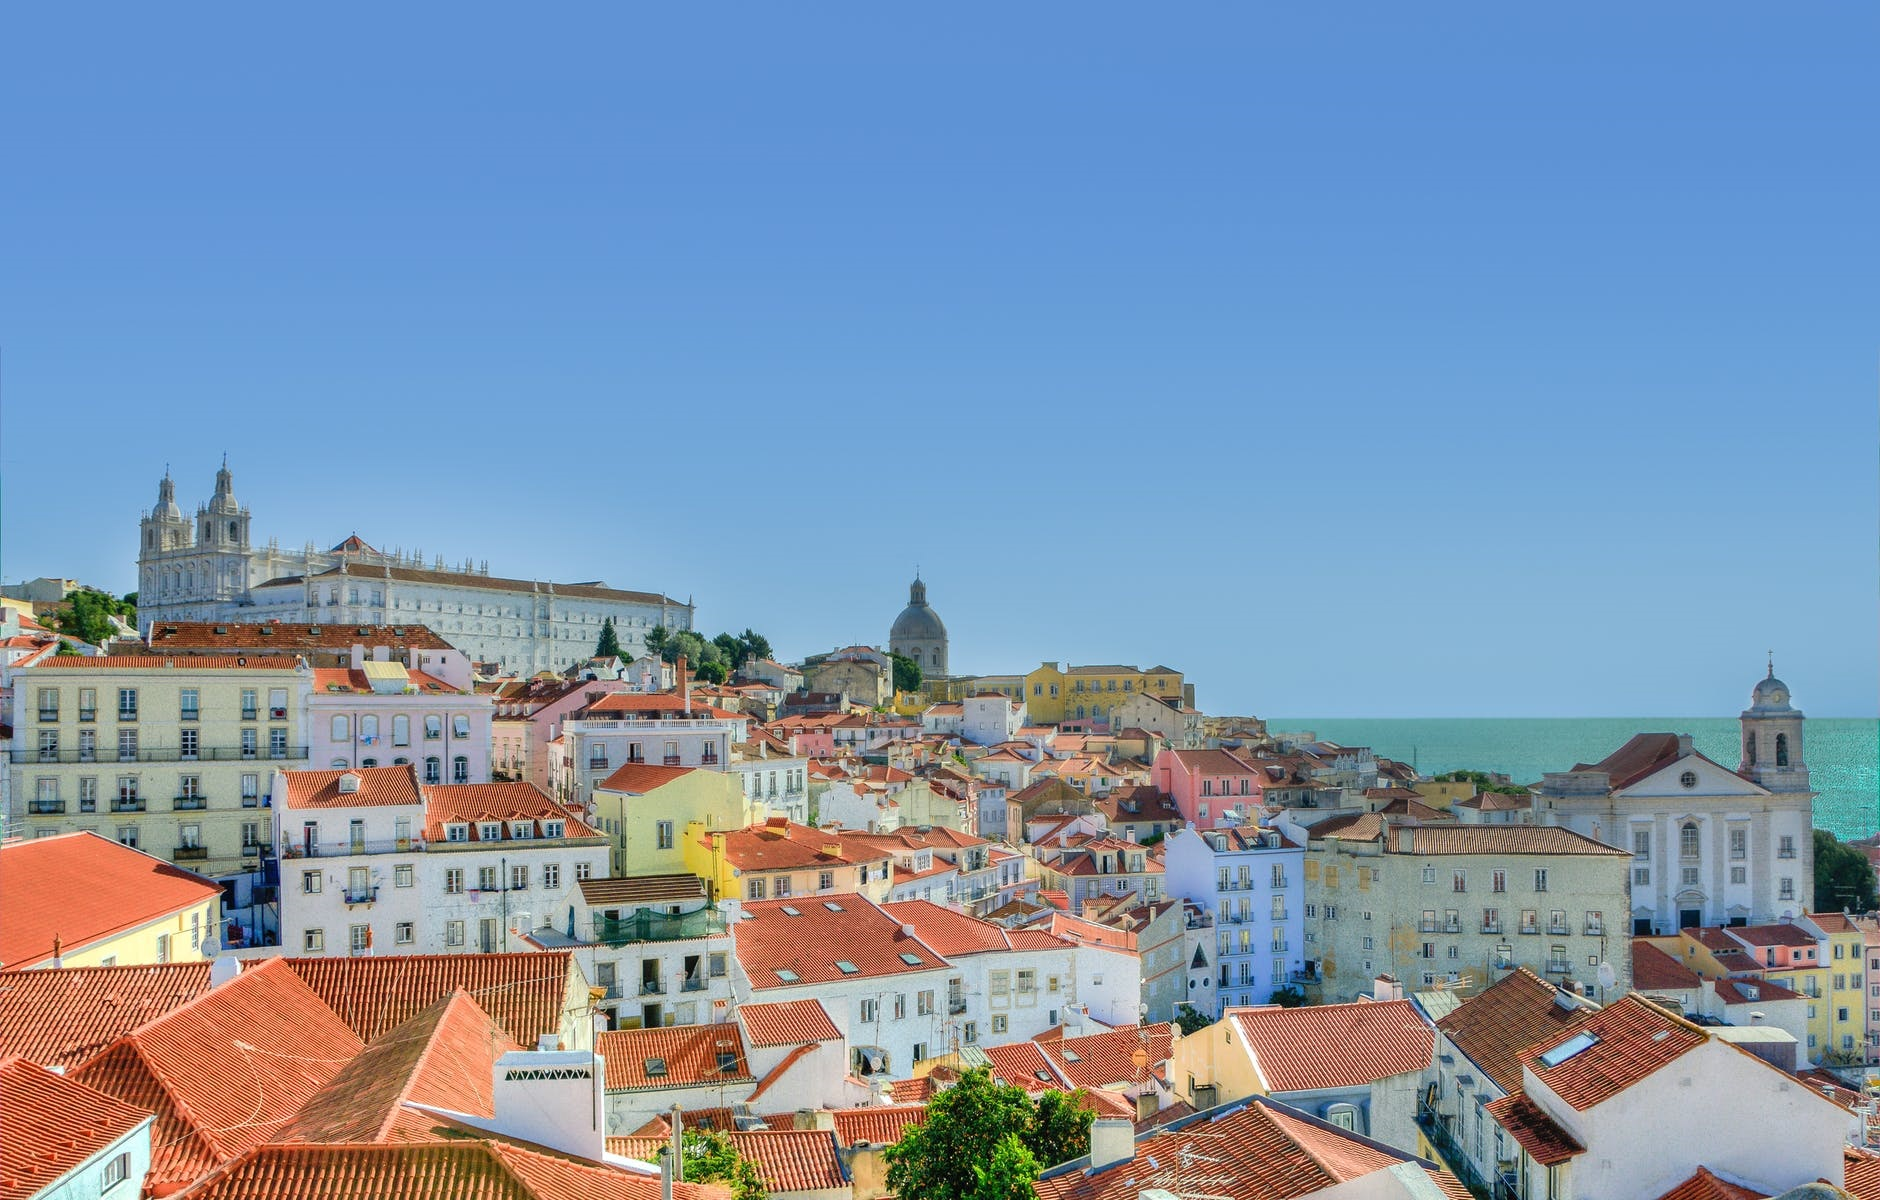
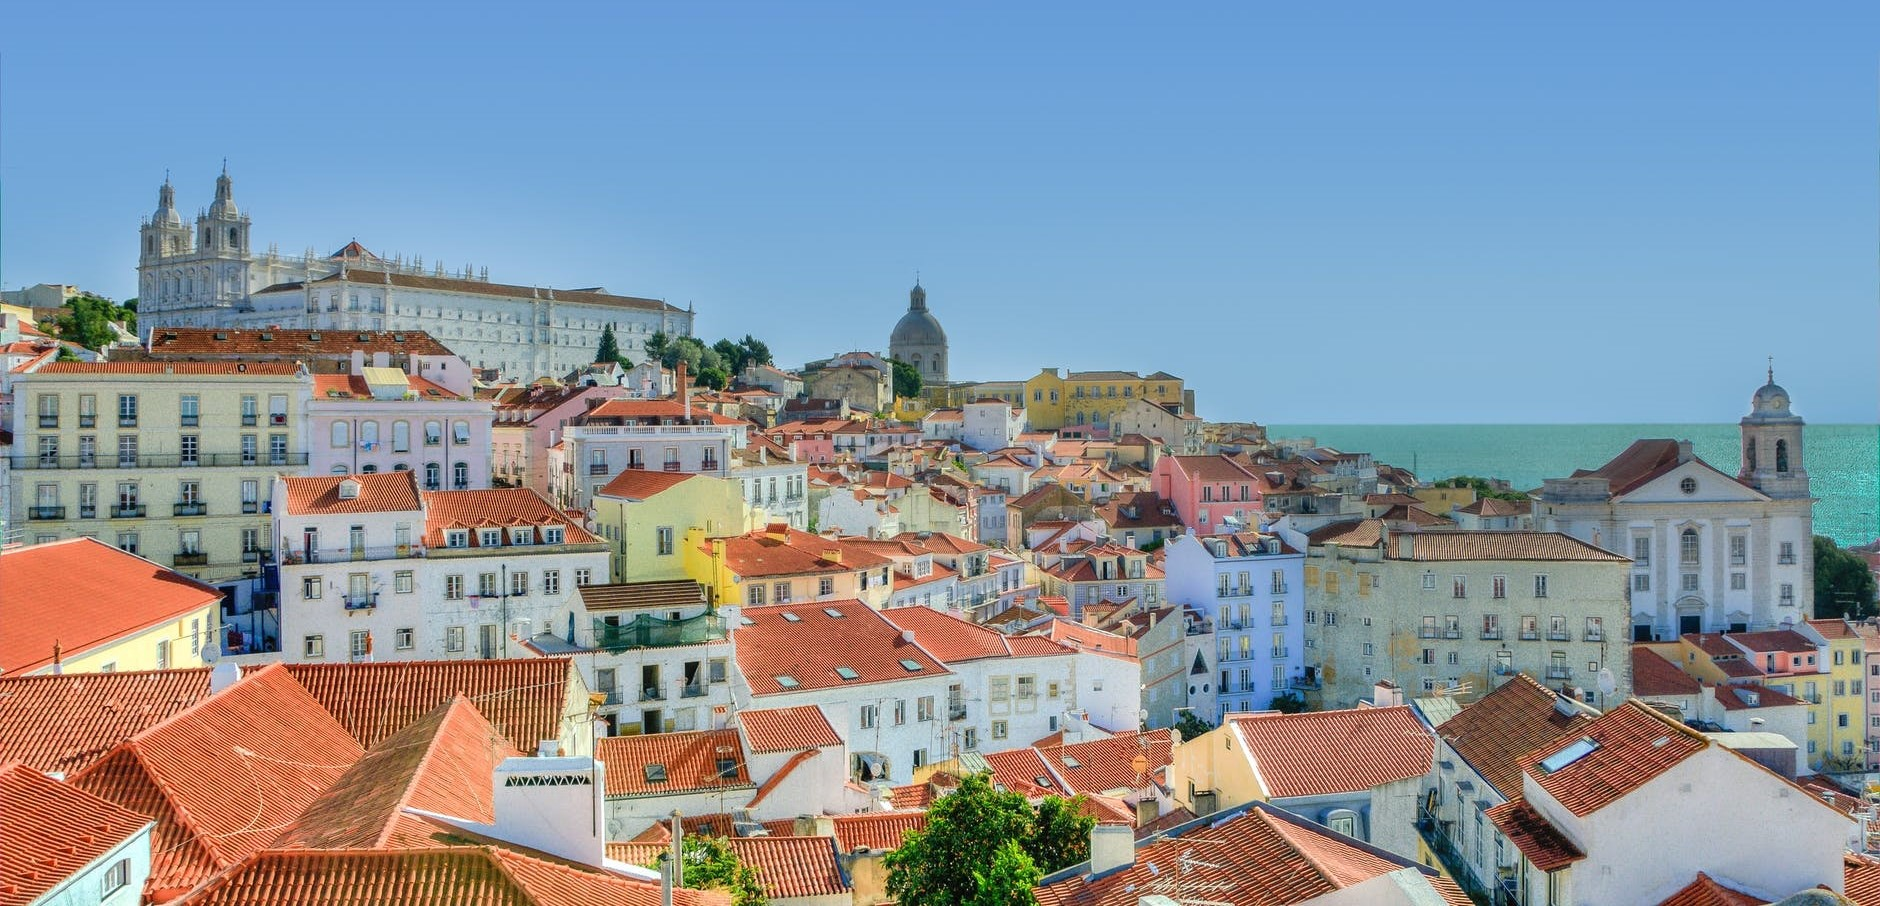
centrei as imagens do header e mudei o navbar

diff --git a/travelAgency/cities/cities.html b/travelAgency/cities/cities.html
@@ -33,13 +33,12 @@
 
     <nav class="navbar navbar-expand-lg navbar-dark probootstrap_navbar" id="probootstrap-navbar">
       <div class="container">
-        <a class="navbar-brand" href="index.html">Bumblebee</a>
+        <a class="navbar-brand" href="../index.html">Bumblebee</a>
         <button class="navbar-toggler" type="button" data-toggle="collapse" data-target="#probootstrap-menu" aria-controls="probootstrap-menu" aria-expanded="false" aria-label="Toggle navigation">
           <span><i class="ion-navicon"></i></span>
         </button>
         <div class="collapse navbar-collapse" id="probootstrap-menu">
           <ul class="navbar-nav ml-auto">
-            <li class="nav-item"><a class="nav-link" href="index.html">Home</a></li>
             <li class="nav-item"><a class="nav-link active" href="cities.html">Cities</a></li>
             <li class="nav-item"><a class="nav-link" href="../bservices.html">Services</a></li>
             <li class="nav-item"><a class="nav-link" href="travel.html">Travel With Us</a></li>
@@ -86,7 +85,7 @@
     </section>
     <!-- END section -->
     
-    <section class="probootstrap_section" id="section-city-guides">
+    <section class="probootstrap_section" id="section-cities">
       <div class="container">
         <div class="row text-center mb-5 probootstrap-animate">
         </div>
@@ -95,26 +94,26 @@
             <a href="#" class="probootstrap-thumbnail">
               <img src="../assets/images/paris.jpeg" alt="" class="img-fluid">
               <div class="probootstrap-text">
-                <h3>Paris</h3>
+                <h3><b>Paris</b></h3>
               </div>
             </a>
           </div>
           <div class="col-lg-3 col-md-6 probootstrap-animate mb-3">
             <a href="#" class="probootstrap-thumbnail">
               <img src="../assets/images/london.jpeg" alt="" class="img-fluid">
-              <h3>London</h3>
+              <h3><b>London</b></h3>
             </a>
           </div>
           <div class="col-lg-3 col-md-6 probootstrap-animate mb-3">
             <a href="#" class="probootstrap-thumbnail">
               <img src="../assets/images/lisbon.jpeg" alt="" class="img-fluid">
-              <h3>Lisbon</h3>
+              <h3><b>Lisbon</b></h3>
             </a>
           </div>
           <div class="col-lg-3 col-md-6 probootstrap-animate mb-3">
             <a href="#" class="probootstrap-thumbnail">
               <img src="../assets/images/stockholm.jpeg" alt="" class="img-fluid">
-              <h3>Stockholm</h3>
+              <h3><b>Stockholm</b></h3>
             </a>
           </div>
         </div>

diff --git a/travelAgency/assets/css/style.css b/travelAgency/assets/css/style.css
@@ -91,9 +91,11 @@ a {
     content: "";
     background: rgba(0, 0, 0, 0.4); }
 
-.navbar-brand {
+.navbar-brand  {
   text-transform: uppercase;
   letter-spacing: .3em; }
+
+
 
 .navbar-toggler span i {
   font-size: 30px; }
@@ -119,14 +121,15 @@ a {
     .probootstrap_navbar .nav-item .nav-link.active {
       color: #fff; }
   .probootstrap_navbar.scrolled {
-    background: rgba(0, 0, 0, 0.8);
+    background: rgba(255, 251, 0, 0.8);
     position: fixed;
     right: 0;
     left: 0;
     top: 0;
     margin-top: -130px; }
     .probootstrap_navbar.scrolled .nav-item .nav-link {
-      padding: .5em 1em; }
+      padding: .5em 1em;
+      color: #000; }
     .probootstrap_navbar.scrolled.awake {
       margin-top: 0px;
       -webkit-transition: .3s all ease-out;
@@ -174,8 +177,8 @@ a {
   #section-feature-testimonial .probootstrap-author a .probootstrap-title {
     color: #b3b3b3; }
 
-#section-city-guides {
-  border-top: 1px solid #e6e6e6; }
+#section-cities {
+  border-top: 3px solid #e6e6e6; }
 
 .probootstrap-thumbnail {
   position: relative;
